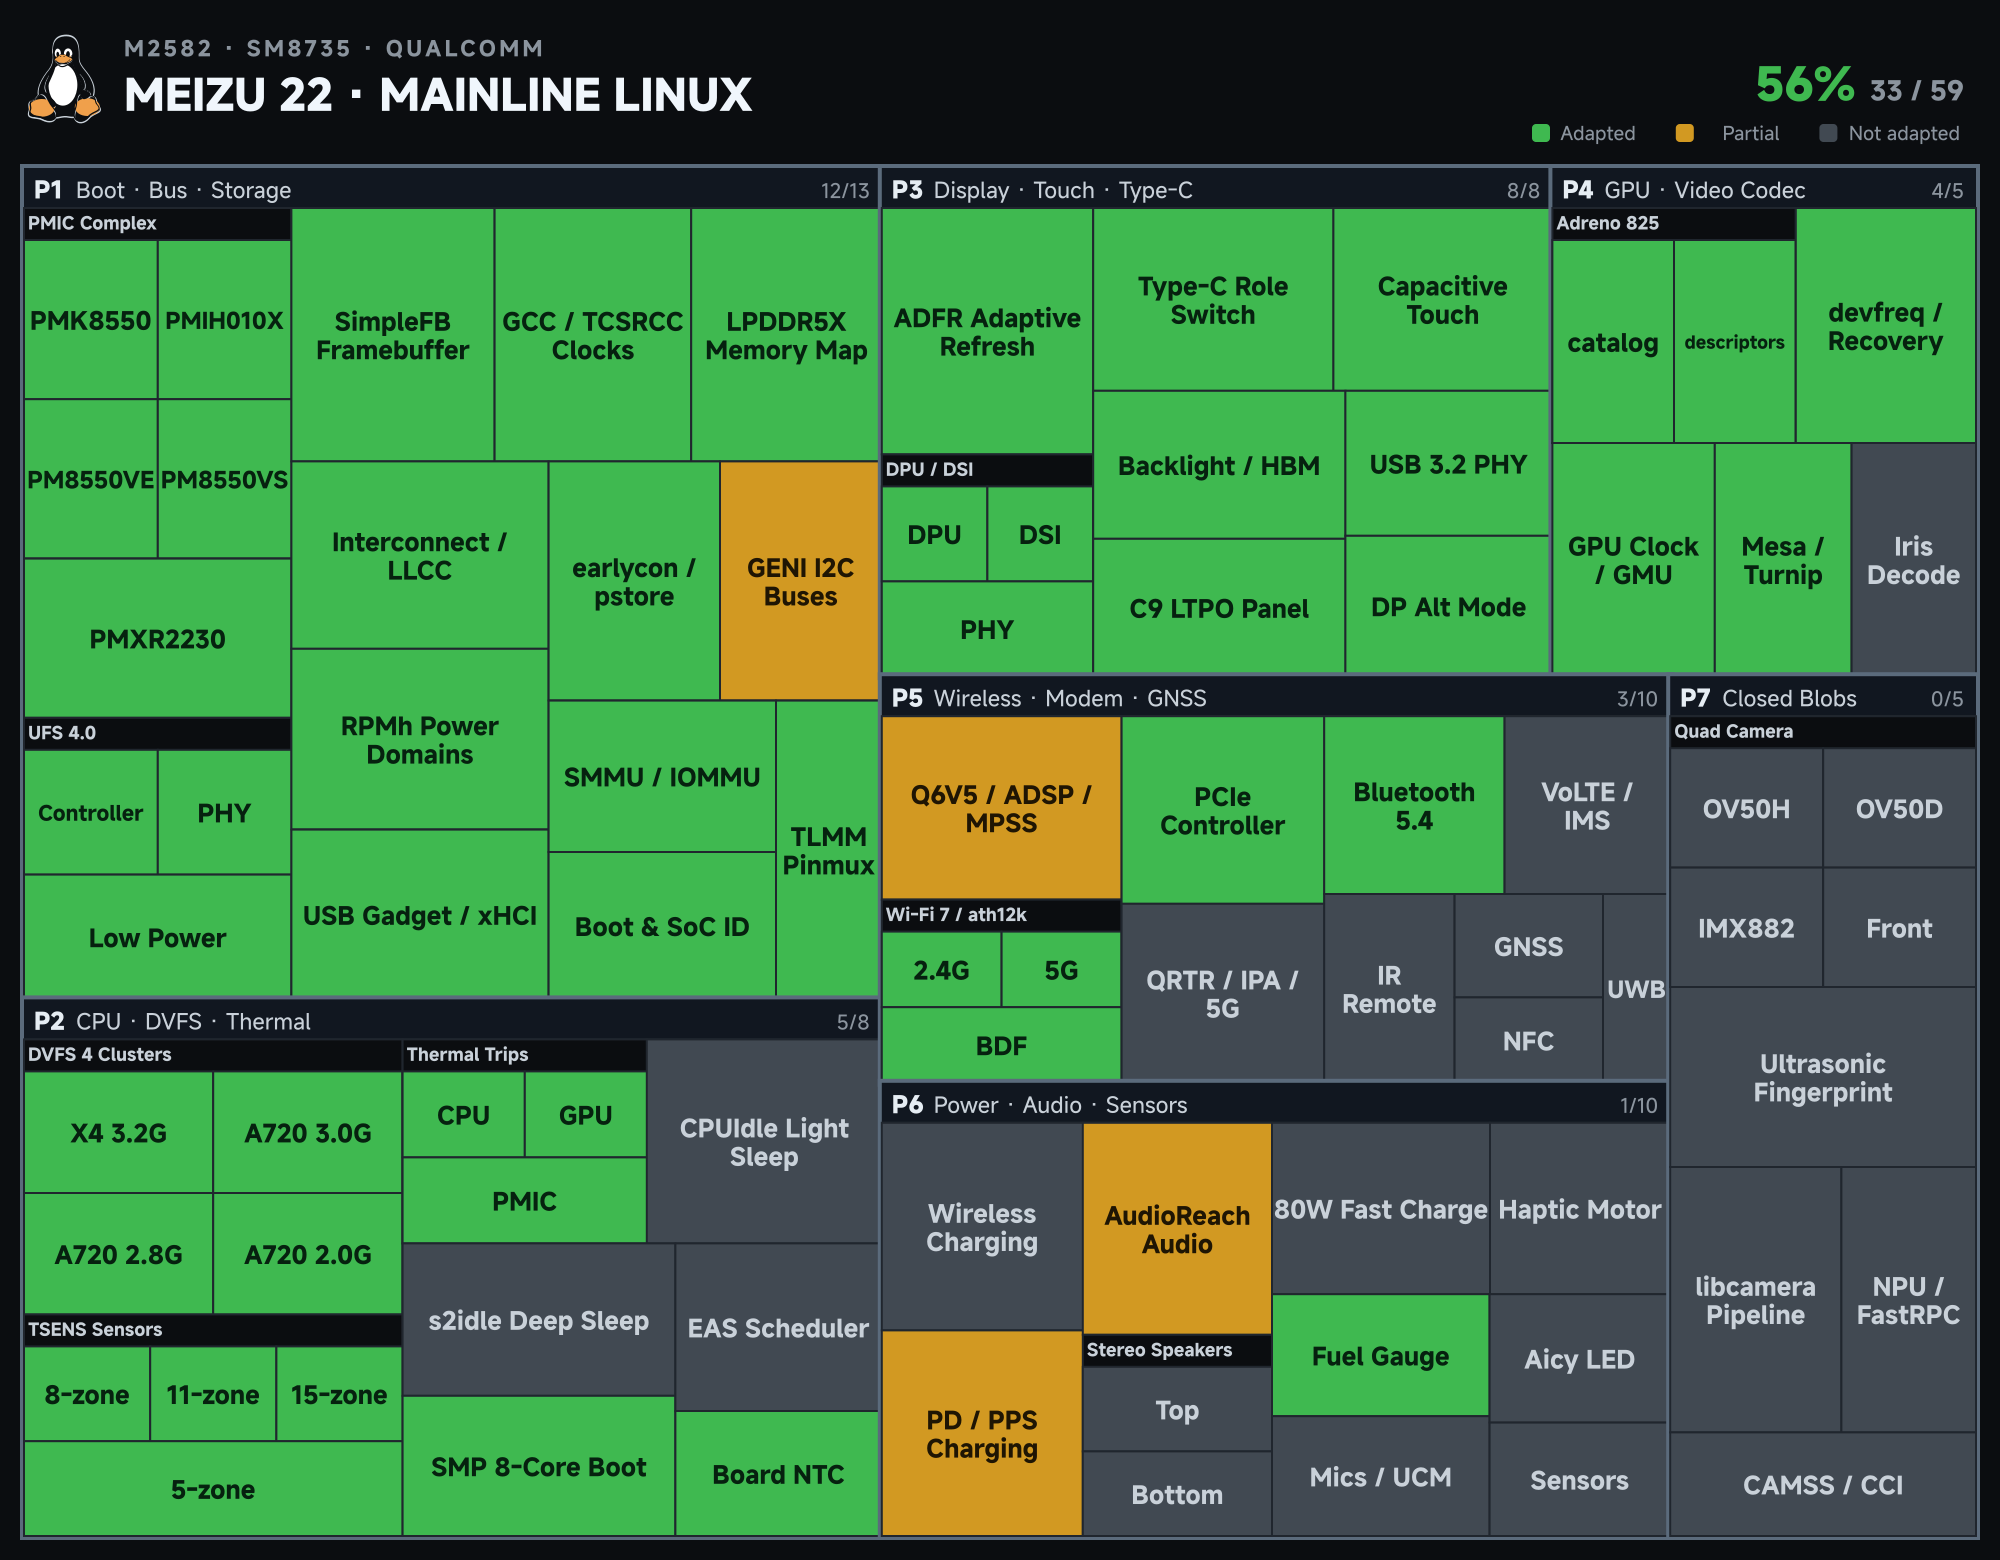
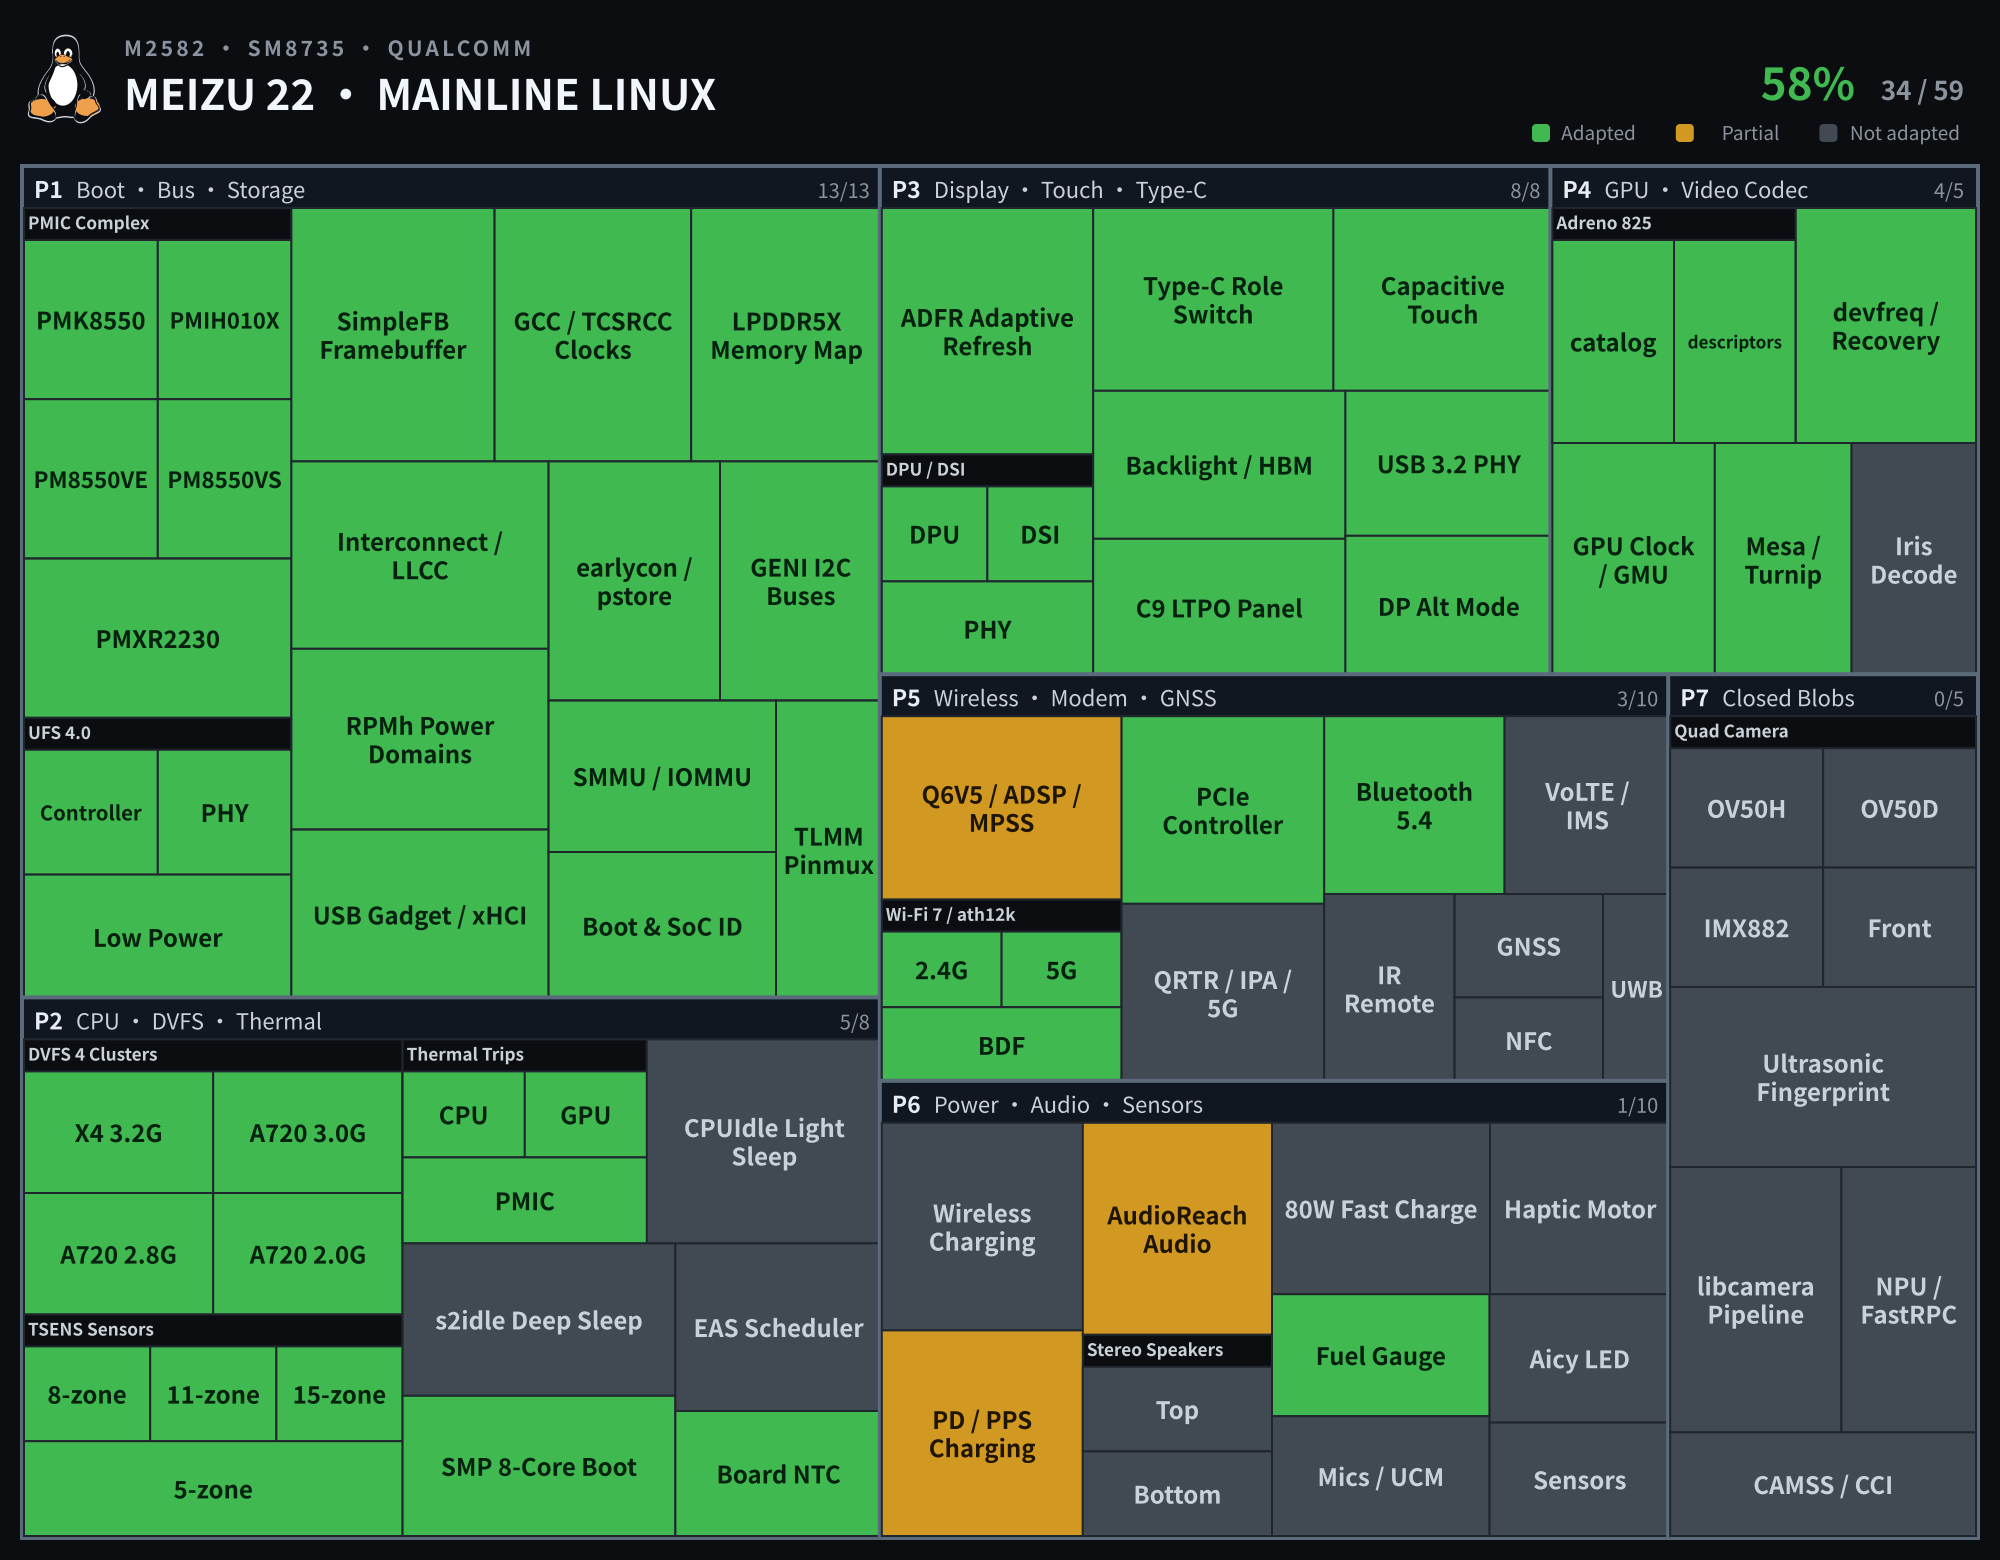
progress: mark GENI I2C buses adapted (P1-13)

diff --git a/tools/progress/gen_tree.py b/tools/progress/gen_tree.py
@@ -36,7 +36,7 @@ STAGES = [
         ("P1-10", "LPDDR5X Memory Map", D, None),
         ("P1-11", "UFS 4.0", None, [("Controller", D), ("PHY", D), ("Low Power", D)]),
         ("P1-12", "USB Gadget / xHCI", D, None),
-        ("P1-13", "GENI I2C Buses", U, None),
+        ("P1-13", "GENI I2C Buses", D, None),
     ]),
     ("P2", "CPU · DVFS · Thermal", [
         ("P2-01", "SMP 8-Core Boot", D, None),
